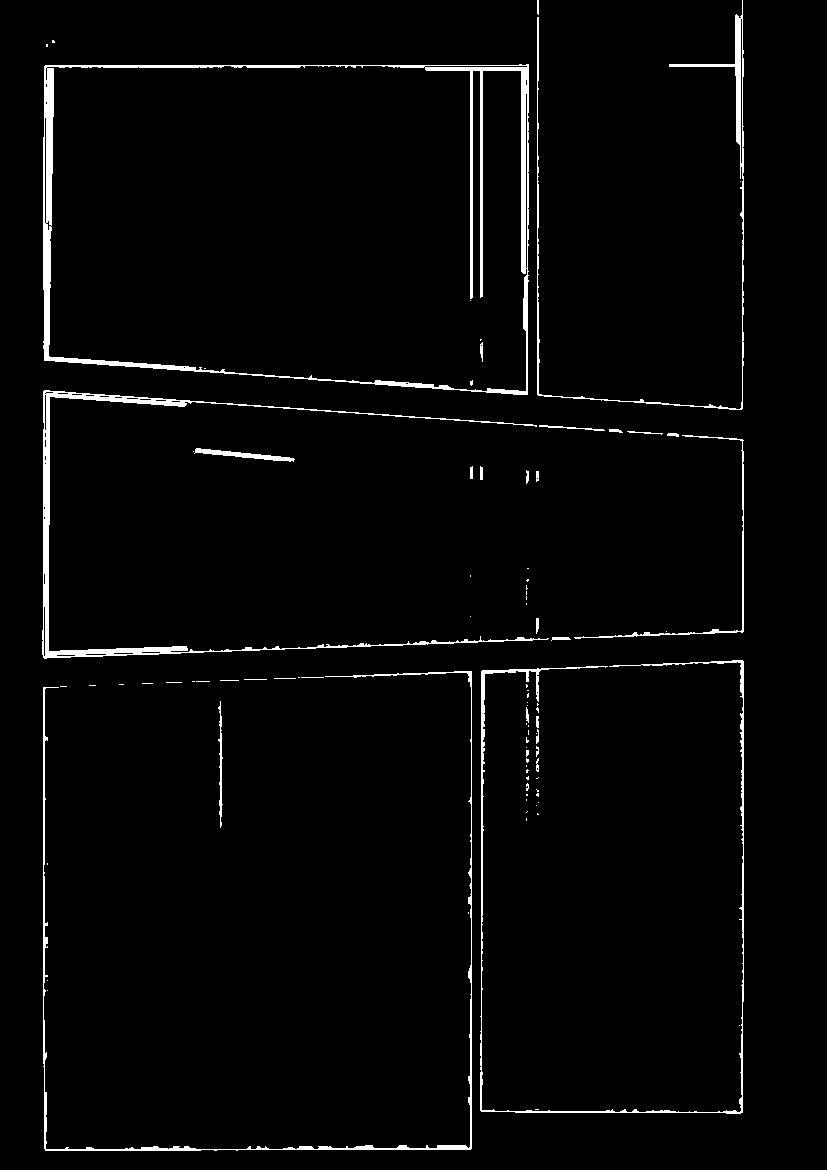
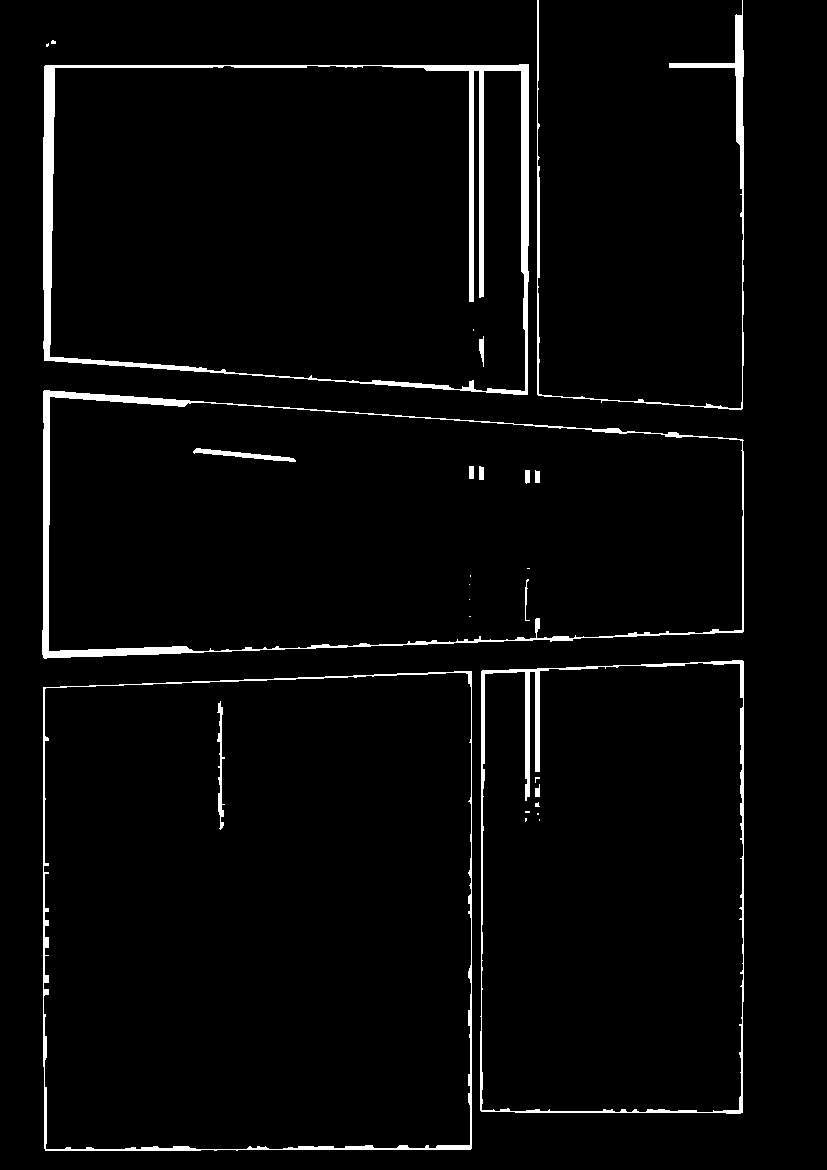
バウンディングボックスで重なりを考慮する前

Changed region(s): [[0.6348, 0.5846, 0.6651, 0.6769], [0.6348, 0.1846, 0.6651, 0.2154]]

diff --git a/lsd.py b/lsd.py
@@ -45,10 +45,10 @@ def main():
     # lsdで直線検出
     lines = lsd(gausForLsd_img)
 
-    result_img = color_img.copy()
+    result_img = np.zeros_like(src_img)
     lines_img = np.zeros_like(src_img)
     lines_senbun = np.zeros_like(src_img)
-    result_senbub = np.zeros_like(src_img)
+    result_senbun = np.zeros_like(src_img)
     # pylsdのやつ
     for line in lines:
         x1, y1, x2, y2 = map(int,line[:4])
@@ -111,7 +111,7 @@ def main():
     #     x2 = int(x0 - 1000 * (-b))
     #     y2 = int(y0 - 1000 * (a))
 
-    #     cv2.line(result_senbub, (x1, y1), (x2, y2), (255, 255, 255), 2)
+    #     cv2.line(result_senbun, (x1, y1), (x2, y2), (255, 255, 255), 2)
 
     # 膨張・収縮処理
     # kernel = np.ones((3,3),np.uint8)
@@ -128,7 +128,7 @@ def main():
     contours = [cnt for cnt in contours if cv2.contourArea(cnt) > 100]
 
     # 輪郭を描画
-    result_senbub = cv2.drawContours(result_senbub, contours, -1, (255, 255, 255), 3)
+    result_senbun = cv2.drawContours(result_senbun, contours, -1, (255, 255, 255), 3)
 
     #ここにさらに直線検出
     lines_s = cv2.HoughLines(and_senbun, 1, np.pi / 180, 250)
@@ -146,9 +146,67 @@ def main():
         x2 = int(x0 - 1000 * (-b))
         y2 = int(y0 - 1000 * (a))
 
-        cv2.line(result_senbub, (x1, y1), (x2, y2), (255, 255, 255), 2)
+        cv2.line(result_senbun, (x1, y1), (x2, y2), (255, 255, 255), 3)
+    
+    # 二値画像に膨張収縮
+    kernel = np.ones((3,3),np.uint8)
+    forBitwiseInverseImg = cv2.dilate(inverse_bin_img,kernel,iterations = 2)
+    forBitwiseInverseImg = cv2.erode(forBitwiseInverseImg,kernel,iterations = 2)
 
-    result_senbub = cv2.bitwise_and(result_senbub,inverse_bin_img)
+    result_senbun = cv2.bitwise_and(result_senbun,forBitwiseInverseImg)
+
+    result_senbun_dulateerode = cv2.dilate(result_senbun,kernel,iterations = 2)
+    result_senbun_dulateerode = cv2.erode(result_senbun_dulateerode,kernel,iterations = 2)
+
+    # 画像端に直線を引く
+    cv2.line(result_senbun_dulateerode, (0, 0), (width-1, 0), (255,255,255), 3)  # 上辺
+    cv2.line(result_senbun_dulateerode, (0, height-1), (width-1, height-1), (255,255,255), 3)  # 下辺
+    cv2.line(result_senbun_dulateerode, (0, 0), (0, height-1), (255,255,255), 3)  # 左辺
+    cv2.line(result_senbun_dulateerode, (width-1, 0), (width-1, height-1), (255,255,255), 3)  # 右辺
+
+    # 輪郭抽出
+    contours = []
+    hierarchy = []
+    # contours,hierarchy = cv2.findContours(result_senbun_dulateerode, cv2.RETR_LIST, cv2.CHAIN_APPROX_NONE)
+    contours,hierarchy = cv2.findContours(result_senbun_dulateerode, cv2.RETR_TREE, cv2.CHAIN_APPROX_TC89_KCOS)
+    # print(contours)
+
+    # 極端に小さい輪郭を削除
+    contours = [cnt for cnt in contours if cv2.contourArea(cnt) > 10000]
+    # 画像サイズの輪郭を削除
+    contours = [cnt for cnt in contours if cv2.contourArea(cnt) < (width*height)/2]
+    print(contours)
+
+
+    # 輪郭を描画
+    # result_img = cv2.drawContours(result_img, contours, -1, (255, 255, 255), -2)
+
+    # 輪郭を描画
+    count = 0
+    for contour in contours:
+        # 輪郭を近似
+        epsilon = 0.08*cv2.arcLength(contour,True)
+        approx = cv2.approxPolyDP(contour,epsilon,True)
+        if len(approx) == 4:
+            count += 1
+            result_img = cv2.drawContours(result_img, [approx], -1, (255, 255, 255), 2)
+    print(count)
+    # for i in range(len(contours)):
+    #     # hierarchy[0][i][3]は、i番目の輪郭の親のインデックスです。
+
+    #     # 親のインデックスを取得
+    #     parent_index = hierarchy[0][i][3]
+
+    #     # 親が存在しない場合はスキップ
+    #     if parent_index == -1:
+    #         continue
+
+    #     # 親の輪郭がさらに親を持たない（つまり、親が1つだけ存在する）場合に描画
+    #     if hierarchy[0][parent_index][3] == -1:
+    #         print('yobidashi')
+    #         cv2.drawContours(result_img, contours, i, (255, 255, 255), 2)
+
+
 
     cv2.imshow('lines_img', lines_img)
     cv2.imwrite('./output/0604/lines_img.jpg', lines_img)
@@ -156,11 +214,14 @@ def main():
     cv2.imwrite('./output/0604/lines_senbun.jpg', lines_senbun)
     cv2.imshow('gaussian_img', inverse_bin_img)
     cv2.imshow('and_img', and_img)
-    cv2.imshow('result_senbub', result_senbub)
-    cv2.imwrite('./output/0604/result_senbub.jpg', result_senbub)
+    cv2.imshow('result_senbub', result_senbun)
+    cv2.imwrite('./output/0604/result_senbub.jpg', result_senbun)
     cv2.imwrite('./output/0604/and_img.jpg', and_img)
     cv2.imshow('and_senbun',and_senbun)
     cv2.imwrite('./output/0604/and_senbun.jpg', and_senbun)
+    cv2.imshow('result_senbub_dulateerode', result_senbun_dulateerode)
+    cv2.imshow('result_img', result_img)
+    cv2.imwrite('./output/0604/result_img.jpg', result_img)
     cv2.waitKey(0)
     cv2.destroyAllWindows()
 
